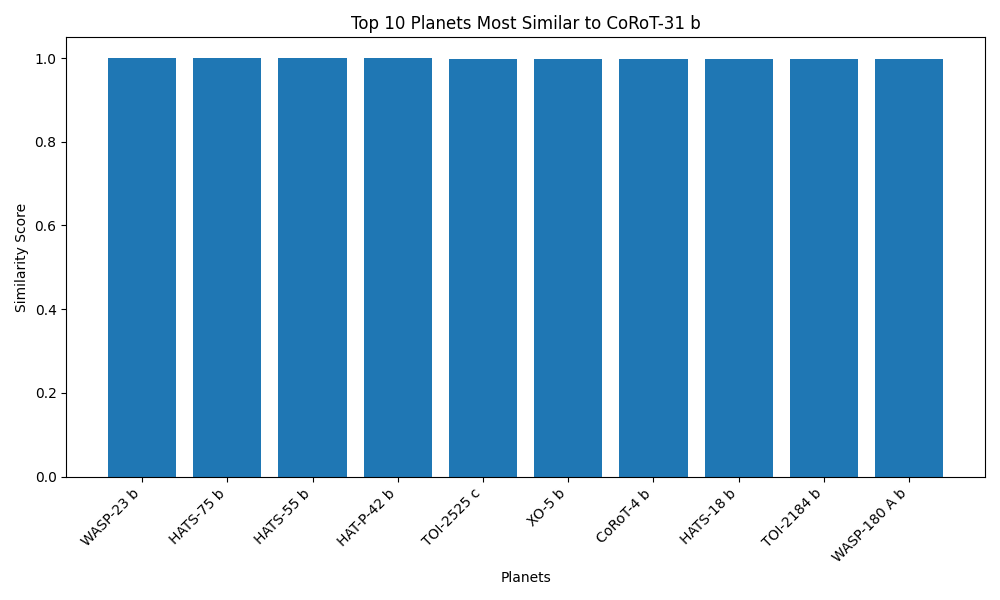
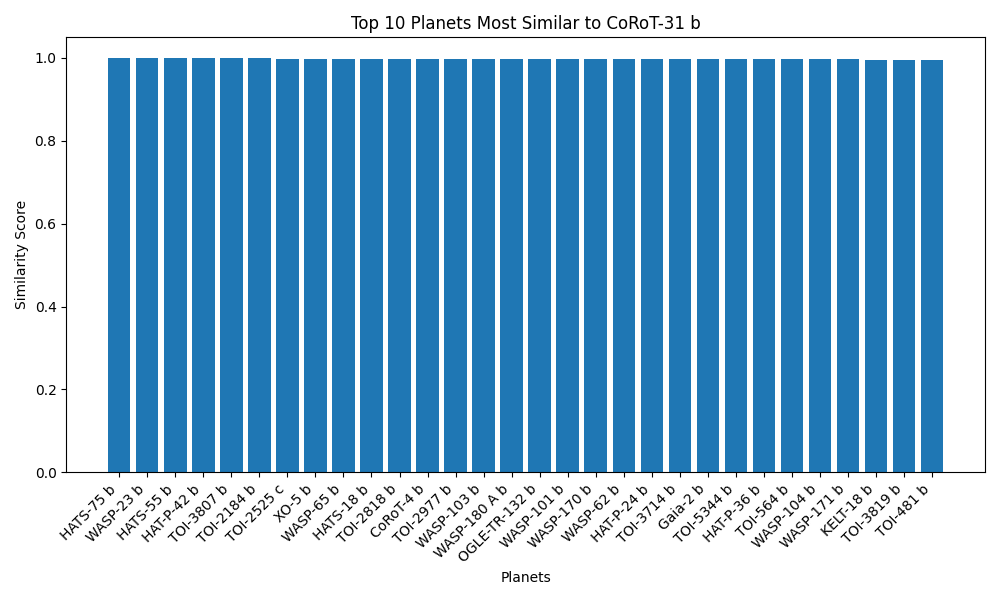
Updated  rank_planets5.py

diff --git a/ml_iaroslav/rank_planets5.py b/ml_iaroslav/rank_planets5.py
@@ -10,6 +10,7 @@ import pandas as pd
 from sklearn.metrics.pairwise import cosine_distances
 import numpy as np
 import matplotlib.pyplot as plt
+import shutil
 
 # In[18]:
 
@@ -24,8 +25,14 @@ def load_dataset(file_path):
 
 
 # Normalize the features for cosine similarity
-def normalize_for_cosine_similarity(df, features):
-    X = df[features].values
+def normalize_for_cosine_similarity(output_dir, df, features):
+    new_df = df[features]
+    try:
+        new_df.to_csv(output_dir + '/planet_rank_features.csv', index=False)
+    except Exception as e:
+        print(f"Failed to save planet_rank_features.csv: {e}")
+
+    X = new_df.values   
     X_normalized = (X - X.min(axis=0)) / (X.max(axis=0) - X.min(axis=0))
     return X_normalized
 
@@ -51,7 +58,7 @@ def rank_by_similarity(X_normalized, planet_name, df):
 
 # In[21]:
 
-def plot_similarity_ranking(rankings, reference_planet, plot_count=10):
+def plot_similarity_ranking(rankings, reference_planet, output_dir, plot_count=10):
     rankings_df = pd.DataFrame(rankings, columns=['Planet_Name', 'Similarity_Score'])
     top_10 = rankings_df.sort_values(by='Similarity_Score', ascending=False).head(plot_count)
     
@@ -68,6 +75,11 @@ def plot_similarity_ranking(rankings, reference_planet, plot_count=10):
     plt.tight_layout()
 
     plt.savefig("planet_similarity_ranking.png", dpi=100)
+    
+    try:
+        shutil.copy("planet_similarity_ranking.png", output_dir + '/planet_similarity_ranking.png')
+    except Exception as e:
+        print(f"Failed to copy planet_similarity_ranking: {e}")
 
     plt.show()
 
@@ -75,9 +87,9 @@ def plot_similarity_ranking(rankings, reference_planet, plot_count=10):
 # In[22]:
 
 
-def planet_rank_by_similarity(planet_name, file_path, features):
+def planet_rank_by_similarity(planet_name, file_path, output_dir, features):
     df = load_dataset(file_path)
-    X_normalized = normalize_for_cosine_similarity(df, features)
+    X_normalized = normalize_for_cosine_similarity(output_dir, df, features)
     ranks = rank_by_similarity(X_normalized, planet_name, df)
     return ranks
 
@@ -86,7 +98,7 @@ def planet_rank_by_similarity(planet_name, file_path, features):
 
 if __name__ == "__main__":
     planet_name = "CoRoT-31 b"
-    ranks = planet_rank_by_similarity(planet_name, file_path="../CSV_Files/Cleaned Dataset.csv", features=["Planet_Mass_Earth", "Equilibrium_Temperature", "ra"])
-    plot_similarity_ranking(ranks, planet_name, 30)
+    ranks = planet_rank_by_similarity(planet_name, file_path="Resources/Cleaned Dataset.csv", output_dir="../Output/CSV_Files", features=["Planet_Mass_Earth", "Equilibrium_Temperature", "ra"])
+    plot_similarity_ranking(rankings=ranks, reference_planet=planet_name, output_dir="../Output/Visualisations", plot_count=30)
 
 
